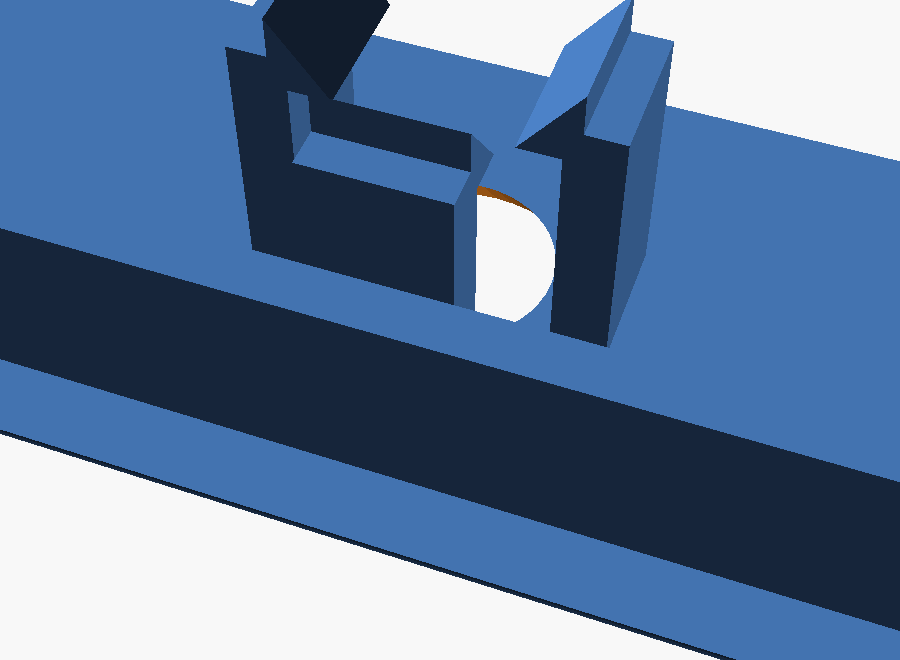
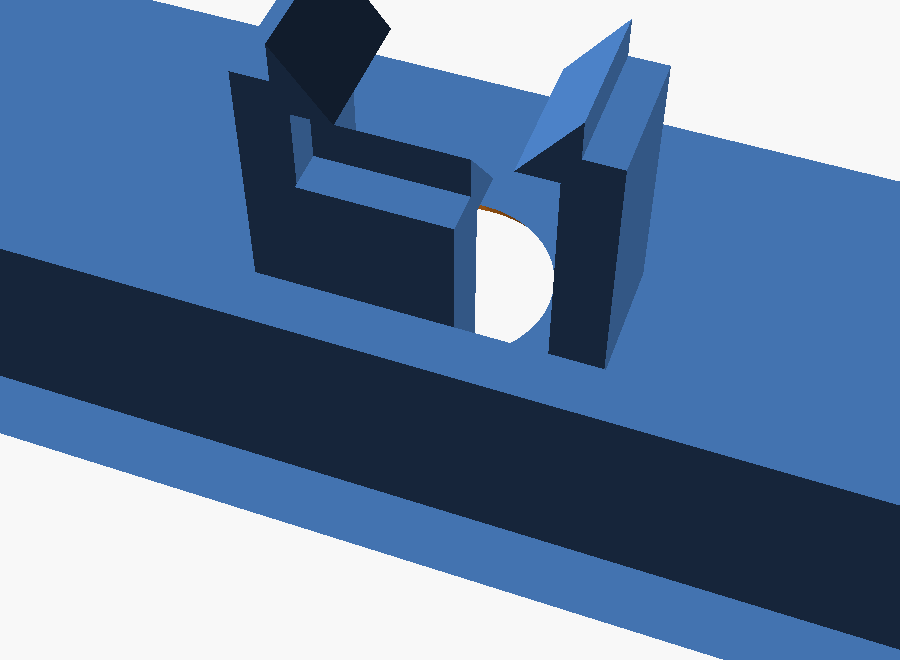
Couvercle jusqu'a 1 mm, et modele 7B a 1
La limite basse du champ passe de 1.6 a 1, et le modele 7B est mis a
1 : la bordure autour de l'ecran restait epaisse a 2. La jupe de 7 mm
raidit le pourtour comme une corniere, mais une grande plaque reste
souple sous 1.6 -> l'interface le signale, et signale aussi que la
fraisure d'une vis M3 (1.4 de profondeur) traverserait un couvercle
si fin.

Effet de bord bienvenu : le cone de la camera ne traverse plus qu'un
millimetre, son ouverture exterieure tombe de Ø10.5 a Ø9.

TPL_7B_V passe a 5 pour que les projets deja generes soient signales.

Couvercle en 2 volumes, sans avertissement.

diff --git a/builder.html b/builder.html
@@ -290,8 +290,8 @@
               <input type="number" id="optComp" step="0.05" min="0" max="1"></div>
             <div class="rowline" title="Trous ronds des parois avec sommet à 45° : impression sans support ni affaissement"><label style="width:auto;flex:1">Goutte d'eau</label>
               <input type="checkbox" id="optTear"></div>
-            <div class="rowline" title="Épaisseur du dessus du couvercle. Plus fin = bordure moins épaisse autour d'un écran ; en dessous de 2 mm il gondole."><label style="width:auto;flex:1">Épaisseur couvercle</label>
-              <input type="number" id="optLidT" step="0.2" min="1.6" max="6"></div>
+            <div class="rowline" title="Épaisseur du dessus du couvercle. Plus fin = bordure moins épaisse autour d'un écran. La jupe raidit le pourtour, mais sous 1.6 mm une grande plaque reste souple."><label style="width:auto;flex:1">Épaisseur couvercle</label>
+              <input type="number" id="optLidT" step="0.2" min="1" max="6"></div>
           </div>
         </div>
         <div class="group">
@@ -495,11 +495,17 @@ const EN = {
   'couvercle vissé': 'screwed lid',
   'Jeu perçage': 'Hole clearance', 'Goutte d\'eau': 'Teardrop holes',
   'Épaisseur couvercle': 'Lid thickness', 'Régénérer': 'Rebuild',
+  'Couvercle à': 'Lid at',
+  'grande plaque, imprime-la à plat et prévois un léger voile':
+    'large plate — print it flat and expect a slight bow',
+  'très fin, mais la jupe le raidit': 'very thin, but the skirt stiffens it',
+  'Vis M3 : la fraisure fait 1.4 de profondeur, elle traverse un couvercle si fin — passe en couvercle clipsé':
+    'M3 screws: the countersink is 1.4 deep and breaks through a lid this thin — switch to the snap-fit lid',
+  'Épaisseur du dessus du couvercle. Plus fin = bordure moins épaisse autour d\'un écran. La jupe raidit le pourtour, mais sous 1.6 mm une grande plaque reste souple.':
+    'Thickness of the lid\'s top plate. Thinner = slimmer border around a screen. The skirt stiffens the rim, but below 1.6 mm a large plate stays floppy.',
   'Ce projet vient d’une version plus ancienne du modèle : les cotes de la caméra et l’épaisseur du couvercle ont changé depuis. Régénère-le pour en profiter — tes réglages du panneau Boîtier seront réécrits.':
     'This project comes from an older version of the template: the camera dimensions and the lid thickness have changed since. Rebuild it to pick them up — your Case panel settings will be overwritten.',
   'Retrait objectif': 'Lens setback', 'Ouverture extérieure : Ø ': 'Outer opening: Ø ',
-  'Épaisseur du dessus du couvercle. Plus fin = bordure moins épaisse autour d\'un écran ; en dessous de 2 mm il gondole.':
-    'Thickness of the lid\'s top plate. Thinner = slimmer border around a screen; below 2 mm it warps.',
   'Pattes': 'Tabs', 'aucune': 'none', 'sur les flancs': 'on the sides',
   'avant / arrière': 'front / back', 'Nombre': 'Count',
   'Tout effacer': 'Clear all',
@@ -1571,6 +1577,18 @@ function renderWarns() {
     for (const m of cutNotes(c)) notes.push({ m, kind: 'cut', id: c.id, face: c.face });
   for (const k of state.clips)
     for (const m of clipWarnings(k)) notes.push({ m, kind: 'clip', id: k.id, face: 'lid', libre: true });
+  // un couvercle mince gondole d'autant plus qu'il est grand, et la
+  // fraisure d'une vis M3 fait déjà 1.4 de profondeur
+  if (state.lidT < 1.6) {
+    const grand = Math.max(state.inner.w, state.inner.d) > 120;
+    notes.push({ m: `${t('Couvercle à')} ${state.lidT} mm : ` +
+      t(grand ? 'grande plaque, imprime-la à plat et prévois un léger voile'
+             : 'très fin, mais la jupe le raidit'),
+      kind: 'cut', id: -1, face: 'lid', libre: true });
+    if (state.lidFix === 'screws')
+      notes.push({ m: t('Vis M3 : la fraisure fait 1.4 de profondeur, elle traverse un couvercle si fin — passe en couvercle clipsé'),
+                   kind: 'cut', id: -1, face: 'lid', libre: true });
+  }
   let html = all.slice(0, 4).map(w =>
     `<button class="warnline" data-kind="${w.kind}" data-id="${w.id}" data-face="${w.face}" title="Cliquer pour voir l'élément">${esc(w.m)}</button>`
   ).join('');
@@ -2314,7 +2332,7 @@ function buildCommands() {
 // Version du modèle 7B. À incrémenter dès que la géométrie change :
 // un projet enregistré garde ses valeurs, il ne se met pas à jour tout
 // seul, et l'interface propose alors de le régénérer.
-const TPL_7B_V = 4;
+const TPL_7B_V = 5;
 
 function applyTemplateP4_7B() {
   // Cotes mesurées, depuis le verre plaqué sous le couvercle :
@@ -2330,7 +2348,7 @@ function applyTemplateP4_7B() {
   // la dalle, à 5 mm de là, masquerait déjà tout au-delà de 19°.
   const CAM = 8.4, LENS_D = 7.2, FOV = 72.9;
   const LENS_GAP = 5;              // centre de l'objectif au bord du verre
-  const LID_T = 2;                 // fin : la bordure autour de l'écran
+  const LID_T = 1;                 // fin : la bordure autour de l'écran
   const W = 176;
   // Ouverture extérieure : l'objectif est un peu en retrait dans son
   // barillet, le trou s'évase donc sur l'épaisseur du couvercle.
@@ -2740,7 +2758,7 @@ function buildStatic() {
   $('optTear').addEventListener('change', () => { pushHistory(); state.teardrop = $('optTear').checked; updateAll(); });
   $('optLidT').addEventListener('input', () => {
     const v = parseFloat($('optLidT').value);
-    if (!isNaN(v) && v >= 1.6) { pushHistory('lidT'); state.lidT = v; updateAll(); }
+    if (!isNaN(v) && v >= 1) { pushHistory('lidT'); state.lidT = v; updateAll(); }
   });
   $('resetBtn').addEventListener('click', () => {
     if (confirm(t('Tout effacer ?'))) { pushHistory(); state = DEFAULT_STATE(); updateAll(); }

diff --git a/docs/Elements-Reference.md b/docs/Elements-Reference.md
@@ -155,8 +155,9 @@ the full 8.6 mm down, exactly as long as the display's own clips.
 **The angle in the plastic.** The lens sits a little way inside its
 barrel, so the hole is a **cone**: Ø 7.2 at the lid's inner face,
 opening at the field-of-view angle through the lid's thickness. On a
-2 mm lid at 72.9° it reaches **Ø 10.5** outside — a clean webcam hole
-in the bezel, with nothing left to vignette the corners.
+1 mm lid at 72.9° it reaches **Ø 9** outside — a clean webcam hole in
+the bezel, with nothing left to vignette the corners. A thicker lid
+widens that opening: it is the lid's thickness the cone has to cross.
 
 **Clips on three sides, front open.** The front edge (facing the
 screen) has no clip: it is the insertion side, and it is also where
@@ -252,6 +253,9 @@ Case panel.
 
 Inner dimensions, side-vent strip, zip-tie slots, lid fixing
 (snap-fit / screwed), FDM hole clearance, teardrop holes, **lid
-thickness** (3 mm default; drop it to 2 for a slimmer border around a
-screen — below 2 the plate warps), and **wall-mounting tabs**: 2 or 4 Ø 4.2 eyelets at floor level, on the
+thickness** (3 mm default, down to 1; thinner means a slimmer border
+around a screen, and the skirt stiffens the rim like an angle
+section — but below 1.6 a large plate stays floppy, and the builder
+says so. M3 countersinks are 1.4 deep and break through such a lid,
+so keep the snap-fit fixing), and **wall-mounting tabs**: 2 or 4 Ø 4.2 eyelets at floor level, on the
 sides or front/back, printed with the base.
